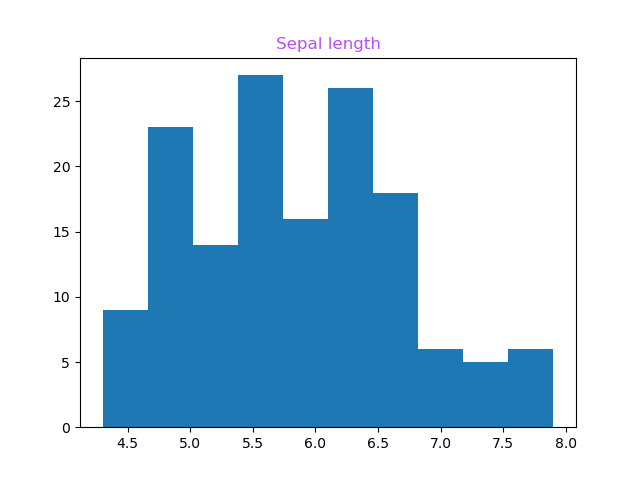
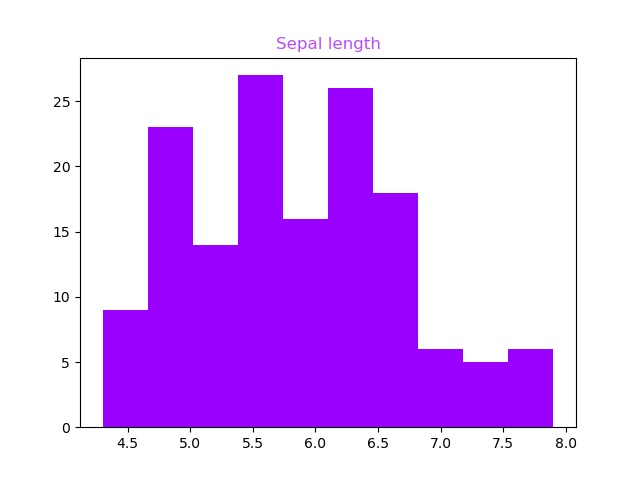
Histograms

Changed region(s): [[0.1562, 0.1562, 0.875, 0.9062]]

diff --git a/analysis.py b/analysis.py
@@ -6,7 +6,6 @@ import pandas as pd
 import numpy as np
 import matplotlib.pyplot as plt
 
-
 # 1. Data
 # Data set is in the csv format, having the values separated by commas
 # To be able to work with data I used pandas to read the csv file and created the irisData data frame 
@@ -64,12 +63,12 @@ counts = irisData.groupby('species')['species'].count()
 #counts = irisData['species'].value_counts()
 print(counts)
 
-
 # Histogram of distribution of species showed in .png file
-plt.hist(irisData['species'])
+plt.hist(irisData['species'], color='#9900ff')
 plt.title(label='Distribution of species', color='#b84dff')
 plt.savefig("species_count.png")
 plt.show()
+
 
 # Summary statistics for each variable
 sl_stats = irisData['sepal_length'].describe()
@@ -92,32 +91,28 @@ with open(filename, 'w+t') as f:
 
 # histograms for each variable separately
 # need to add labels and change the colour
-plt.hist(irisData['sepal_length'])
+plt.hist(irisData['sepal_length'], color='#9900ff')
 plt.title(label='Sepal length', color='#b84dff')
 plt.savefig("sepal_length.png")
 plt.show()
 
-
-plt.hist(irisData['sepal_width'])
+plt.hist(irisData['sepal_width'], color ='#5c0099')
 plt.title(label='Sepal width', color='#b84dff')
-plt.savefig("sepal_width_distr.png")
+plt.savefig("sepal_width.png")
 plt.show()
 
-plt.hist(irisData['petal_length'])
+plt.hist(irisData['petal_length'], color='#cc80ff')
 plt.title(label='Petal length', color='#b84dff')
-plt.savefig("petal_length_distr.png")
+plt.savefig("petal_length.png")
 plt.show()
 
-plt.hist(irisData['petal_width'])
+plt.hist(irisData['petal_width'], color='#ebccff')
 plt.title(label='Petal width', color='#b84dff')
-plt.savefig("petal_width_distr.png")
+plt.savefig("petal_width.png")
 plt.show()
 
 # histogram of four variables together
-# for this section I followed github example, joeajames, reference in Readme
 # when we call histograms separately they overlap which is handy for comparison 
-# we can adjust the opacity with alpha to show them easier like in an example
-# change the colour
 plt.hist(irisData['sepal_length'], label='sepal_length', color='#9900ff')
 plt.hist(irisData['sepal_width'], label='sepal_width', color='#5c0099')
 plt.hist(irisData['petal_length'], label='petal_length', color='#cc80ff')
